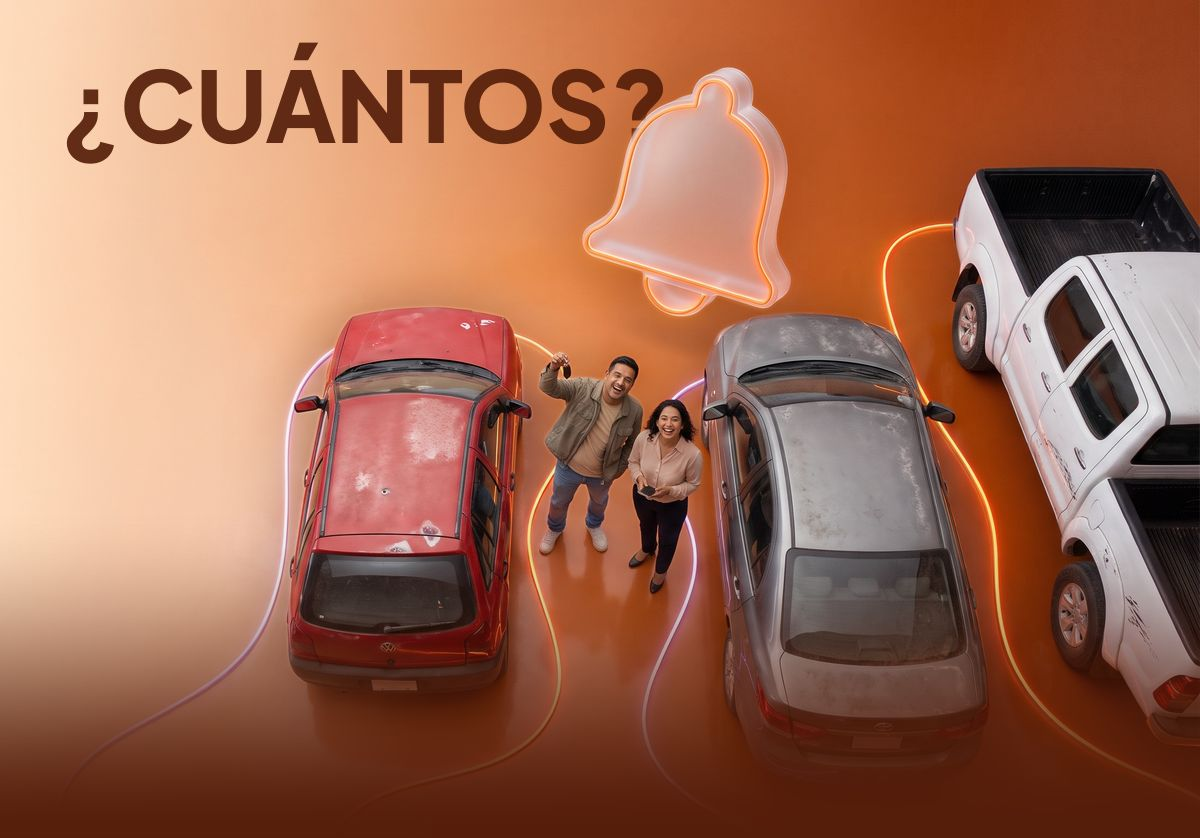
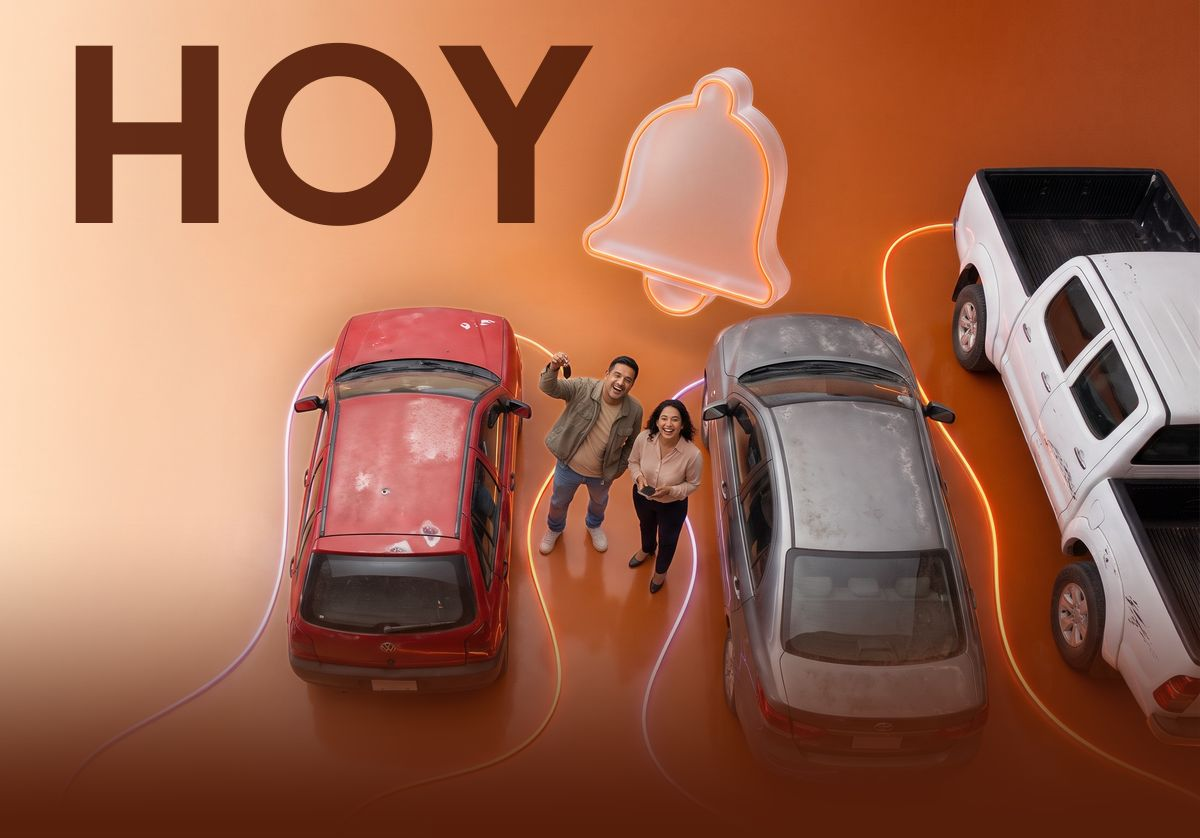
feat(correos): Revendedores 2–6 al nivel del copy de Julio, palabras gigantes nuevas y Valoriza con los 2 de Silvana primero
- Revendedores 2–6 reescritos con la estructura del correo 1, un ángulo por correo
  (compradores, cómo funciona, costos, confianza, cierre) y solo hechos confirmados de VMC.
- Palabras gigantes: TAMBIÉN VENDES, A LA VISTA, PASO A PASO y HOY reemplazan a
  ¿Y VENDER?, MISMO LUGAR, PUBLÍCALO y ¿CUÁNTOS? (poster2.py). El título largo del 1
  baja a 23 px en móvil (titleLong) y queda en 3 líneas a 375 px.
- Campaña Valoriza: valoriza-3 y valoriza-7 (corregidos por Silvana) van primero
  con el chip «Corregido» (CORREGIDOS en revisionStatus.ts).

Changed region(s): [[0.0308, 0.031, 0.555, 0.2792]]

diff --git a/src/emails/boletines/campanaRevendedores.ts b/src/emails/boletines/campanaRevendedores.ts
@@ -21,7 +21,7 @@
  */
 
 import type { EmailTemplate } from '../prodEmails';
-import { acc, b, build, cel, cels, closing, gap, hero, HOLA, link, note, p, ps, type Def } from './campanaValoriza';
+import { acc, b, build, cel, closing, gap, hero, HOLA, note, p, ps, type Def } from './campanaValoriza';
 
 // ponytail: mismos placeholders que Valoriza hasta tener las URLs reales (PENDIENTES en revisionStatus.ts)
 const VALORIZA_URL = 'https://www.vmcsubastas.com/';
@@ -59,7 +59,7 @@ const DEFS: Def[] = [
     subject: '¿Eres revendedor? Ahora también puedes publicar tu carro en VMC',
     preheader: 'Publica tu carro, recibe propuestas y decide cómo negociar.',
     stage: 'Reconoce', leadsTo: ['revendedores-2-rotacion'],
-    hero: hero({ img: `${HERO}/revendedores-1.jpg`, imgM: `${HERO}/revendedores-1-m.jpg`, bg: '#2c126a', alt: '¿Y vender? — Revendedor entrega la llave de su carro', eyebrow: 'Nuevo en VMC', title: `¿Eres revendedor? ¿Sabías que ahora puedes ${acc('publicar tu carro')} en VMC?`, text: 'Publica tu carro, recibe propuestas y decide cómo negociar desde el mismo lugar donde compras para revender.', cta: CTA, url: PUBLICAR_URL }),
+    hero: hero({ img: `${HERO}/revendedores-1.jpg`, imgM: `${HERO}/revendedores-1-m.jpg`, bg: '#2c126a', alt: 'También vendes — Revendedor entrega la llave de su carro', titleLong: true, eyebrow: 'Nuevo en VMC', title: `¿Eres revendedor? ¿Sabías que ahora puedes ${acc('publicar tu carro')} en VMC?`, text: 'Publica tu carro, recibe propuestas y decide cómo negociar desde el mismo lugar donde compras para revender.', cta: CTA, url: PUBLICAR_URL }),
     body: [
       HOLA, gap(8),
       p('Si compras carros para revender, sabes que encontrar una buena unidad es apenas una parte del negocio. También llega el momento de vender el carro que ya tienes y abrir espacio para seguir moviendo tu inventario.'),
@@ -72,81 +72,104 @@ const DEFS: Def[] = [
       gap(24), ps('Un solo pago. Publicación activa hasta vender. 0% comisión.'),
     ],
   },
+  /*
+   * 2–6: ronda 1600, al nivel del copy de Julio (correo 1): misma estructura (saludo + 3 párrafos,
+   * bloque de 3 ítems, cierre con bajada y P. D.), vocabulario de vendedor y un ángulo por correo.
+   */
   {
     id: 'revendedores-2-rotacion',
-    name: 'Revendedores 2 — tu carro frente a los compradores de VMC',
-    subject: 'Donde compras, ahora también vendes',
-    preheader: 'Publica tu carro en VMC y recibe propuestas.',
+    name: 'Revendedores 2 — tu carro donde ya buscan los compradores',
+    subject: 'Tu carro, frente a los compradores que ya entran a VMC',
+    preheader: 'Publica en modalidad Negociable y recibe sus propuestas en Mi Garaje.',
     stage: 'Beneficio', leadsTo: ['revendedores-3-como-funciona'],
-    hero: hero({ img: `${HERO}/revendedores-2.jpg`, imgM: `${HERO}/revendedores-2-m.jpg`, bg: '#133239', alt: 'Mismo lugar — Revendedora sentada sobre su camioneta roja', eyebrow: 'Nuevo en VMC', title: `Donde compras, ahora ${acc('también vendes')}.`, perks: ['Compradores en VMC', 'Propuestas en Mi Garaje', 'Republica sin costo'], text: 'Publica tu carro en VMC y recibe propuestas.', cta: CTA, url: PUBLICAR_URL }),
+    hero: hero({ img: `${HERO}/revendedores-2.jpg`, imgM: `${HERO}/revendedores-2-m.jpg`, bg: '#133239', alt: 'A la vista — Revendedora sentada sobre su camioneta roja', eyebrow: 'Para revendedores', title: `Pon tu carro donde ${acc('ya buscan los compradores')}.`, text: 'Los compradores de VMC ya entran a buscar su próxima unidad. Publica la tuya y recibe sus propuestas.', cta: CTA, url: PUBLICAR_URL }),
     body: [
       HOLA, gap(8),
-      p(`Los compradores ya entran a VMC a buscar carros. ${b('Pon el tuyo donde ellos buscan')}.`),
-      gap(28), cel('propuestas.png', 'Propuestas recibidas en Mi Garaje', 'Más compradores', 'Tu carro, donde están los compradores', [['compras', 'Compradores activos', 'Ya entran a VMC a buscar carros.'], ['negociaciones', 'Propuestas a tu cuenta', 'Llegan a Mi Garaje, sin llamadas a deshoras.'], ['fecha', 'Sigue publicado', 'Si no se vende, se republica sin costo.']]),
-      gap(32), closing('crecimiento', 'Vende y vuelve a comprar', 'Publica tu carro y recibe propuestas.', CTA, PUBLICAR_URL),
-      gap(24), ps('Pagas la publicación una sola vez. Tu carro sigue publicado hasta que se venda.'),
+      p('Cuando vendes por tu cuenta, buena parte del trabajo es que tu carro llegue a alguien que de verdad quiere comprar: avisos, llamadas y mensajes que no avanzan.'),
+      gap(16),
+      p(`En VMC ese público ya está. ${b('Quienes entran a comprar carros pueden ver tu unidad y enviarte una propuesta')}, sin que tengas que salir a buscarlos.`),
+      gap(16),
+      p(`Publicas en modalidad ${b('Negociable')}, defines tu expectativa de venta y revisas cada propuesta desde Mi Garaje.`),
+      gap(28), cel('propuestas.png', 'Propuestas recibidas en Mi Garaje', '', 'Tu unidad, a la vista de quien compra.', [['compras', 'Compradores que ya están en VMC', 'Tu carro aparece donde ellos buscan su próxima compra.'], ['negociaciones', 'Propuestas en Mi Garaje', 'Revisa cada una en un solo lugar, sin perseguir mensajes.'], ['fecha', 'Republica sin costo', 'Si no se vende, vuelve a publicarlo sin pagar de nuevo.']]),
+      gap(32), closing('compras', 'Menos tiempo buscando compradores.', '<b>Más tiempo para tu próxima compra.</b><br>Publica tu carro y deja que las propuestas lleguen a Mi Garaje.', 'Publicar en VMC', PUBLICAR_URL),
+      gap(24), ps('Mientras tu carro está publicado, sigues comprando en VMC como siempre.'),
     ],
   },
   {
     id: 'revendedores-3-como-funciona',
-    name: 'Revendedores 3 — cómo funciona: valoriza, publica, negocia',
-    subject: 'Valoriza, publica y recibe propuestas',
-    preheader: 'Así vendes tu carro en VMC. Valorizar es gratis.',
+    name: 'Revendedores 3 — cómo funciona: valoriza, publica, recibe propuestas y negocia',
+    subject: 'Así publicas tu carro en VMC, paso a paso',
+    preheader: 'Valoriza, publica en Negociable, recibe propuestas y negocia.',
     stage: 'Cómo funciona', leadsTo: ['revendedores-4-costos'],
-    hero: hero({ img: `${HERO}/revendedores-3.jpg`, imgM: `${HERO}/revendedores-3-m.jpg`, bg: '#422515', alt: 'Publícalo — Revendedor fotografía su camioneta para publicarla', eyebrow: 'Revendedores', title: `Valoriza, publica y ${acc('recibe propuestas')}.`, perks: ['Valoriza', 'Publica', 'Negocia'], text: 'Empieza gratis: valoriza tu carro para fijar tu precio.', cta: 'Valorizar mi carro', url: VALORIZA_URL }),
+    hero: hero({ img: `${HERO}/revendedores-3.jpg`, imgM: `${HERO}/revendedores-3-m.jpg`, bg: '#422515', alt: 'Paso a paso — Revendedor fotografía su camioneta para publicarla', eyebrow: 'Cómo funciona', title: `Valoriza, publica y ${acc('negocia tus propuestas')}.`, text: 'Todo desde Mi Garaje: pones tu unidad en venta y negocias con compradores de VMC.', cta: 'Valorizar mi carro', url: VALORIZA_URL }),
     body: [
       HOLA, gap(8),
-      p(`Ya conoces Negociable como comprador. ${b('Ahora tú recibes las propuestas')}.`),
-      gap(18),
-      cels([[`${CEL}/formulario.png`, 'Formulario de valorización de Mi Garaje con marca, año, modelo y kilometraje', 'Valoriza', 'Gratis. Te orienta en tu precio.'], [PUBLICA, PUBLICA_ALT, 'Publica', 'Como oferta negociable.'], ['responder.png', 'Propuesta con Aceptar y Contraproponer', 'Negocia', 'Acepta, rechaza o contrapropón.']]),
+      p('Ya conoces Negociable desde el lado del comprador: envías una propuesta y esperas la respuesta. Ahora te toca el otro lado.'),
+      gap(16),
+      p(`Empiezas valorizando tu carro para tener una referencia antes de definir tu expectativa de venta. Luego lo publicas en modalidad Negociable y ${b('las propuestas llegan a tu Mi Garaje')}.`),
+      gap(16),
+      p('Con cada propuesta eliges: aceptarla, rechazarla o enviar una contrapropuesta.'),
+      gap(28), cel(`${CEL}/formulario.png`, 'Formulario de valorización de Mi Garaje con marca, año, modelo y kilometraje', '', 'Tu venta en tres pasos.', [['valorizaciones', '1. Valoriza tu carro', 'Ten una referencia para definir tu expectativa de venta.'], ['publicar', '2. Publica en Negociable', 'Sube tu unidad y deja claro cuánto esperas.'], ['negociaciones', '3. Recibe y negocia', 'Acepta, rechaza o envía una contrapropuesta.']]),
       gap(24), note('La valorización es un <b>valor referencial con fecha</b>: te orienta para fijar tu precio. No es un precio fijo de venta.'),
-      gap(32), closing('valorizaciones', 'Empieza por valorizar', 'Es gratis. Publicas cuando quieras.', 'Valorizar mi carro', VALORIZA_URL),
-      gap(16), link('¿Ya tienes tu precio? Publica tu carro aquí', PUBLICAR_URL),
+      gap(32), closing('valorizaciones', 'Empieza por el primer paso.', '<b>Valoriza tu carro y define tu expectativa de venta.</b><br>Cuando estés listo, publícalo desde Mi Garaje.', 'Valorizar mi carro', VALORIZA_URL),
+      gap(24), ps(`¿Ya tienes claro tu precio? Puedes ir directo a <a href="${PUBLICAR_URL}" target="_blank" style="font-weight:700;color:#8460e5;text-decoration:underline;">publicar tu carro</a>.`),
     ],
   },
   {
     id: 'revendedores-4-costos',
-    name: 'Revendedores 4 — costos: 0 % de comisión al vender',
-    subject: '¿Cuánto te cobra VMC si vendes tu carro?',
-    preheader: 'Un solo pago de 25 SubasCoins al publicar. Nada al vender.',
+    name: 'Revendedores 4 — costos: un solo pago, 0 % de comisión al vender',
+    subject: '¿Cuánto cuesta vender tu carro en VMC?',
+    preheader: '25 SubasCoins una sola vez para publicar. 0% de comisión al vender.',
     stage: 'Costos', leadsTo: ['revendedores-5-tu-decides'],
-    hero: hero({ img: `${HERO}/revendedores-4.jpg`, imgM: `${HERO}/revendedores-4-m.jpg`, bg: '#30284b', alt: '0 % — Revendedora sonríe al ver su celular dentro de su carro', eyebrow: 'Nuevo en VMC', title: `¿Cuánto te cobra VMC ${acc('si vendes')}?`, perks: ['25 SubasCoins al publicar', '0 % al vender', 'Republica sin costo'], text: 'Solo pagas 25 SubasCoins al publicar, y nada al vender.', cta: CTA, url: PUBLICAR_URL }),
+    hero: hero({ img: `${HERO}/revendedores-4.jpg`, imgM: `${HERO}/revendedores-4-m.jpg`, bg: '#30284b', alt: '0 % — Revendedora sonríe al ver su celular dentro de su carro', eyebrow: 'Costos claros', title: `Un solo pago para publicar. ${acc('Nada al vender.')}`, text: 'Pagas 25 SubasCoins una vez y, cuando vendes, VMC no te cobra comisión.', cta: CTA, url: PUBLICAR_URL }),
     body: [
       HOLA, gap(8),
-      p(`Como vendedor no pagas comisión. ${b('La paga el comprador que gana')}.`),
-      gap(28), cel(PUBLICA, PUBLICA_ALT, 'Sin letra chica', 'Lo que pagas y lo que no', [['billetera', '25 SubasCoins', 'Un solo pago al publicar.'], ['precio', '0 % al vender', 'Ni comisión ni porcentaje sobre tu precio.'], ['fecha', 'Republica gratis', 'Hasta que se venda, sin pagar de nuevo.']]),
-      gap(32), closing('billetera', 'Un pago. Cero comisión.', 'Publica tu carro y recibe propuestas.', CTA, PUBLICAR_URL),
-      gap(24), ps('Así lo dicen los Términos y Condiciones de VMC (sección IV.11.2).'),
+      p('En la reventa, todo lo que se va en costos de venta sale de tu margen. Por eso aquí van los números claros, antes de que publiques.'),
+      gap(16),
+      p(`Publicar tu carro cuesta ${b('25 SubasCoins, una sola vez')}. Si no se vende, lo republicas sin costo.`),
+      gap(16),
+      p(`Cuando vendes, ${b('tú pagas 0% de comisión')}. La comisión la paga el comprador.`),
+      gap(28), cel(PUBLICA, PUBLICA_ALT, '', 'Lo que pagas como vendedor.', [['billetera', '25 SubasCoins al publicar', 'Un solo pago por tu unidad.'], ['fecha', 'Republicar no tiene costo', 'Si no se vende, vuelve a publicarla sin pagar de nuevo.'], ['precio', '0% de comisión al vender', 'La comisión la paga el comprador, no tú.']]),
+      gap(32), closing('billetera', 'Publica una vez. Vende sin comisión.', '<b>Costos claros desde tu primera publicación.</b><br>Publica tu carro, recibe propuestas y negocia sin pagar comisión al vender.', 'Publicar en VMC', PUBLICAR_URL),
+      gap(24), ps('Estas condiciones están en los Términos y Condiciones de VMC (sección IV.11.2).'),
     ],
   },
   {
     id: 'revendedores-5-tu-decides',
-    name: 'Revendedores 5 — confianza: propuestas serias, tú decides',
-    subject: 'Tú decides a quién venderle',
-    preheader: 'Solo te proponen compradores que consignan.',
+    name: 'Revendedores 5 — confianza: compradores que consignan, tú decides',
+    subject: 'Propuestas de compradores que consignan',
+    preheader: 'Cada propuesta vence en 24 h y tú decides cómo responder.',
     stage: 'Confianza', leadsTo: ['revendedores-6-cuantos'],
-    hero: hero({ img: `${HERO}/revendedores-5.jpg`, imgM: `${HERO}/revendedores-5-m.jpg`, bg: '#130542', alt: 'Tú decides — Revendedor de brazos cruzados junto a su carro', eyebrow: 'Revendedores', title: `Recibes propuestas. ${acc('Tú decides.')}`, perks: ['Consignan para proponer', 'Vencen en 24 h', 'Tú eliges'], text: 'Solo te proponen compradores que consignan en VMC.', cta: CTA, url: PUBLICAR_URL }),
+    hero: hero({ img: `${HERO}/revendedores-5.jpg`, imgM: `${HERO}/revendedores-5-m.jpg`, bg: '#130542', alt: 'Tú decides — Revendedor de brazos cruzados junto a su carro', eyebrow: 'Reglas claras', title: `Solo te proponen ${acc('compradores que consignan')}.`, text: 'Para enviarte una propuesta, el comprador primero consigna en VMC. Tú decides cómo responder.', cta: CTA, url: PUBLICAR_URL }),
     body: [
       HOLA, gap(8),
-      p(`Vender por tu cuenta trae curiosos y regateos. ${b('En VMC, cada propuesta llega con respaldo')}.`),
-      gap(28), cel('responder.png', 'Pantalla de una propuesta con Aceptar y Contraproponer', 'Reglas claras', 'Así se negocia en VMC', [['verificado', 'Consignan para proponer', 'Solo propone quien consigna.'], ['fecha', 'Vencen en 24 h', 'Ninguna propuesta se queda colgada.'], ['negociaciones', 'Tú eliges', 'Acepta la que te convenga, sin importar el orden.']]),
-      gap(32), closing('verificado', 'Negocia con quien va en serio', 'Publica tu carro y recibe propuestas.', CTA, PUBLICAR_URL),
-      gap(24), ps('VMC valida el resultado de cada negociación.'),
+      p('Cuando vendes por tu cuenta, recibes mensajes de todo tipo: curiosos, ofertas que no se concretan y regateos que no terminan.'),
+      gap(16),
+      p(`En VMC, ${b('solo puede proponerte quien ha consignado')}. Y cada propuesta vence en 24 horas, así ninguna negociación queda abierta sin respuesta.`),
+      gap(16),
+      p('Con cada una decides si la aceptas, la rechazas o envías una contrapropuesta.'),
+      gap(28), cel('responder.png', 'Pantalla de una propuesta con Aceptar y Contraproponer', '', 'Reglas claras para negociar.', [['verificado', 'Compradores que consignan', 'Solo propone quien ya consignó en VMC.'], ['fecha', 'Propuestas con plazo', 'Cada propuesta vence en 24 h.'], ['negociaciones', 'Contrapropuesta', 'Si el monto no te convence, responde con tu cifra.']]),
+      gap(32), closing('verificado', 'Negocia con compradores que van en serio.', '<b>Tú marcas las condiciones.</b><br>Publica tu carro y revisa cada propuesta desde Mi Garaje.', 'Publicar en VMC', PUBLICAR_URL),
+      gap(24), ps('Puedes aceptar cualquier propuesta, sin importar el monto ni el orden en que llegó.'),
     ],
   },
   {
     id: 'revendedores-6-cuantos',
-    name: 'Revendedores 6 — cierre: ahora vendes tú',
-    subject: '¿Cuántos carros tienes esperando comprador?',
-    preheader: 'Publica el primero hoy y recibe propuestas.',
+    name: 'Revendedores 6 — cierre: ahora vendes tú, publica el primero hoy',
+    subject: 'Ahora vendes tú: publica tu primer carro hoy',
+    preheader: 'Elige la unidad que quieres rotar y empieza a recibir propuestas.',
     stage: 'Cierre',
-    hero: hero({ img: `${HERO}/revendedores-6.jpg`, imgM: `${HERO}/revendedores-6-m.jpg`, bg: '#551e0a', alt: '¿Cuántos? — Socios revendedores entre tres carros', eyebrow: 'Nuevo en VMC', title: `Mismo lugar, distinta jugada: ${acc('ahora vendes tú')}.`, perks: ['Valoriza gratis', '25 SubasCoins una vez', '0 % al vender'], text: 'Publica tu carro hoy y recibe propuestas.', cta: CTA, url: PUBLICAR_URL }),
+    hero: hero({ img: `${HERO}/revendedores-6.jpg`, imgM: `${HERO}/revendedores-6-m.jpg`, bg: '#551e0a', alt: 'Hoy — Socios revendedores entre tres carros', eyebrow: 'Tu primera publicación', title: `Ahora vendes tú. ${acc('Publica tu primer carro.')}`, text: 'Elige la unidad que quieres rotar, publícala en Negociable y empieza a recibir propuestas.', cta: CTA, url: PUBLICAR_URL }),
     body: [
       HOLA, gap(8),
-      p(`Ya sabes comprar bien. ${b('Ahora vende en el mismo lugar')}.`),
-      gap(28), cel(INICIO, INICIO_ALT, 'En resumen', 'Todo para vender tu carro', [['valorizaciones', 'Valoriza gratis', 'Tu valor de referencia, sin costo.'], ['publicar', 'Publica una vez', '25 SubasCoins. Se republica sin costo.'], ['negociaciones', 'Recibe propuestas', 'Acepta, rechaza o contrapropón.']]),
-      gap(32), closing('publicar', '¿Cuántos carros tienes esperando?', 'Publica el primero y recibe propuestas.', CTA, PUBLICAR_URL),
-      gap(16), link('¿Primero quieres saber cuánto vale? Valorízalo gratis', VALORIZA_URL),
+      p('En estos correos te contamos cómo vender en VMC: dónde están los compradores, cómo funciona, cuánto cuesta y cómo negocias.'),
+      gap(16),
+      p(`Lo que queda es dar el primer paso. ${b('Elige el carro que quieres mover y publícalo hoy')}.`),
+      gap(16),
+      p('Si todavía tienes dudas sobre el precio, valorízalo primero y define tu expectativa de venta con una referencia.'),
+      gap(28), cel(INICIO, INICIO_ALT, '', 'Tu primera publicación, en resumen.', [['publicar', 'Un solo pago', '25 SubasCoins y tu publicación se mantiene activa hasta que vendas.'], ['precio', '0% de comisión al vender', 'La comisión la paga el comprador.'], ['negociaciones', 'Tú decides', 'Acepta, rechaza o envía una contrapropuesta.']]),
+      gap(32), closing('publicar', '¿Qué unidad vas a rotar primero?', '<b>Publícala hoy en VMC.</b><br>Y sigue comprando para tu inventario como siempre.', CTA, PUBLICAR_URL),
+      gap(24), ps(`¿Primero quieres una referencia de precio? <a href="${VALORIZA_URL}" target="_blank" style="font-weight:700;color:#8460e5;text-decoration:underline;">Valoriza tu carro aquí</a>.`),
     ],
   },
 ];

diff --git a/src/emails/boletines/campanaValoriza.ts b/src/emails/boletines/campanaValoriza.ts
@@ -79,7 +79,7 @@ export const acc = (t: string) => `<span style="color:${DS.orange};">${t}</span>
  * El efecto está horneado en la imagen (hero/valoriza-N.jpg, recortes de Abraham +
  * ~/Desktop/recortes-valoriza/poster.py), así que se ve igual en Gmail, Apple Mail y Outlook.
  */
-type HeroOpts = { img: string; alt: string; eyebrow?: string; title: string; text: string; cta: string; url: string; perks?: [string, string, string]; titleSize?: number; titleLineHeight?: number; titleLetterSpacing?: string; imgM?: string; bg?: string; layout?: 'left' | 'center' };
+type HeroOpts = { img: string; alt: string; eyebrow?: string; title: string; text: string; cta: string; url: string; perks?: [string, string, string]; titleSize?: number; titleLineHeight?: number; titleLetterSpacing?: string; titleLong?: boolean; imgM?: string; bg?: string; layout?: 'left' | 'center' };
 export function hero(o: HeroOpts): string {
   const imgStyle = 'display:block;width:100%;max-width:100%;height:auto;border-radius:24px 24px 0 0;';
   const url = (f: string) => (f.includes('/') ? f : `${IMG}/hero/${f}`); // Revendedores pasa rutas completas
@@ -94,7 +94,7 @@ export function hero(o: HeroOpts): string {
     ? `<table role="presentation" border="0" cellpadding="0" cellspacing="0" align="center"><tr><td align="center">${logo(68)}</td></tr>${eyebrow ? `<tr><td align="center" style="padding-top:12px;">${eyebrow}</td></tr>` : ''}</table>`
     : `${T()}<tr><td valign="middle">${logo(68)}</td>${eyebrow ? `<td align="right" valign="middle">${eyebrow}</td>` : ''}</tr></table>`;
   const copy = `${head}
-<h1 class="ds-h1" style="margin:18px 0 0;font-family:${F};font-size:${o.titleSize ?? 38}px;line-height:${o.titleLineHeight ?? 42}px;font-weight:800;letter-spacing:${o.titleLetterSpacing ?? "-0.04em"};color:#ffffff;text-align:${al};">${o.title}</h1>
+<h1 class="ds-h1${o.titleLong ? ' ds-h1-l' : ''}" style="margin:18px 0 0;font-family:${F};font-size:${o.titleSize ?? 38}px;line-height:${o.titleLineHeight ?? 42}px;font-weight:800;letter-spacing:${o.titleLetterSpacing ?? "-0.04em"};color:#ffffff;text-align:${al};">${o.title}</h1>
 <p style="margin:14px 0 24px;font-size:17px;line-height:26px;color:#e8ddff;text-align:${al};">${o.text}</p>
 <table role="presentation" border="0" cellpadding="0" cellspacing="0" align="${al}"><tr><td>${button(o.cta, o.url)}</td></tr></table>
 ${o.perks ? `<p style="clear:both;margin:0;padding-top:16px;font-size:13px;line-height:18px;font-weight:600;color:#cfbaff;text-align:${al};">${o.perks.join(' &nbsp;·&nbsp; ')}</p>` : ''}`;
@@ -233,6 +233,7 @@ table[width="600"],td[width="600"]{width:100%!important;box-sizing:border-box}
 .ds-sale-visual{display:none!important}
 td.ds-stack[width="4%"]{height:14px!important}
 .ds-h1{font-size:30px!important;line-height:34px!important}
+.ds-h1-l{font-size:23px!important;line-height:28px!important}
 .ds-hero-d{display:none!important}
 .ds-hero-m{display:block!important;max-height:none!important;overflow:visible!important}
 }

diff --git a/app/correos/variantes/VariantesCatalog.tsx b/app/correos/variantes/VariantesCatalog.tsx
@@ -27,7 +27,7 @@ import { CATEGORY_GRADIENT, STAGE_ORDER, type EmailTemplate } from "@/src/emails
 import { generateEmail } from "@/src/emails/prodEmailTemplates";
 import { applyPreset, presetForCategory } from "@/src/emails/headerSwap";
 import { CATEGORIAS_ORDENADAS, CORREOS_ORDENADOS, categoriaDe } from "@/src/emails/catalogOrder";
-import { estadoDe, PENDIENTES_TOTAL } from "@/src/emails/revisionStatus";
+import { CORREGIDOS, estadoDe, PENDIENTES_TOTAL } from "@/src/emails/revisionStatus";
 import { FlowDiagram } from "./FlowDiagram";
 
 const INK = "var(--ui-ink)";
@@ -143,7 +143,12 @@ function EmailCard({ email }: { email: EmailTemplate }): JSX.Element {
         <h3 className="cor-name" style={{ fontSize: 13, fontWeight: 700, color: INK, margin: 0, letterSpacing: "-0.01em", lineHeight: 1.35 }}>
           {email.name}
         </h3>
-        <div style={{ marginTop: "auto" }}>
+        <div style={{ marginTop: "auto", display: "flex", flexWrap: "wrap", gap: 6 }}>
+          {CORREGIDOS.has(email.id) && (
+            <span style={{ display: "inline-flex", alignItems: "center", padding: "2px 7px", borderRadius: 9999, fontSize: 10, fontWeight: 700, letterSpacing: "0.01em", background: "#eef2ff", color: "#4338ca", border: "1px solid #c7d2fe" }}>
+              Corregido
+            </span>
+          )}
           <EstadoPill pendiente={pendiente} compact />
         </div>
       </div>

diff --git a/src/emails/catalogOrder.ts b/src/emails/catalogOrder.ts
@@ -14,6 +14,7 @@
  */
 
 import { EMAILS, STAGE_ORDER, type EmailTemplate } from "./prodEmails";
+import { CORREGIDOS } from "./revisionStatus";
 
 /** Correos sin `category` en el origen (p. ej. el aviso de fee) van al final. */
 export const SIN_CATEGORIA = "General";
@@ -60,6 +61,9 @@ function ordenar(): CategoriaOrdenada[] {
       const correos = list
         .map(function withIndex(e, i) { return { e, i }; })
         .sort(function byFlow(a, b) {
+          // Los corregidos por el cliente van arriba (revisionStatus.ts → CORREGIDOS).
+          const c = Number(CORREGIDOS.has(b.e.id)) - Number(CORREGIDOS.has(a.e.id));
+          if (c !== 0) return c;
           const d = stageIndex(categoria, a.e.stage) - stageIndex(categoria, b.e.stage);
           return d !== 0 ? d : a.i - b.i;
         })

diff --git a/src/emails/revisionStatus.ts b/src/emails/revisionStatus.ts
@@ -47,6 +47,12 @@ export const PENDIENTES: Record<string, RevisionPendiente> = {
   'revendedores-6-cuantos': { nota: AMBAS },
 };
 
+/**
+ * Correos ya corregidos por el cliente (Silvana, 25/11): van primero en su categoría y
+ * llevan el chip «Corregido» en el catálogo. Quitar un id lo devuelve a su orden de flujo.
+ */
+export const CORREGIDOS: ReadonlySet<string> = new Set(['valoriza-3-por-que-valorizar', 'valoriza-7-vende-y-valoriza']);
+
 export function estadoDe(id: string): RevisionEstado {
   return Object.prototype.hasOwnProperty.call(PENDIENTES, id) ? "pendiente" : "listo";
 }
